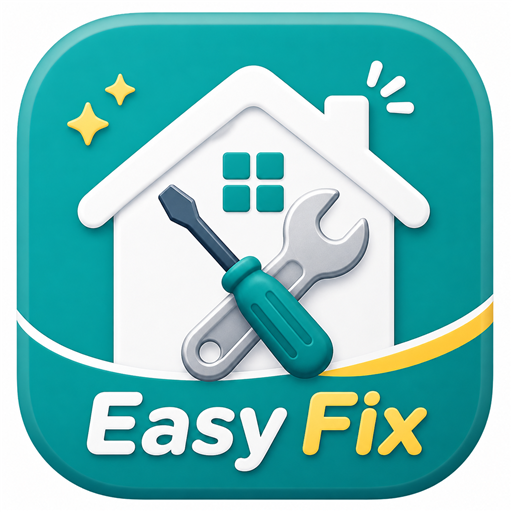
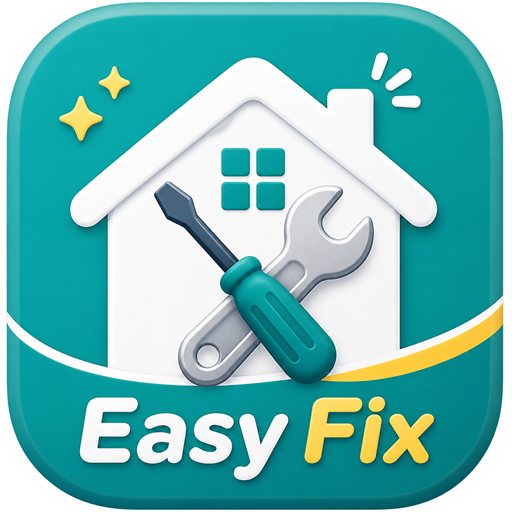
หน้า home: คืนแบนเนอร์ + แปะไอคอน Easy Fix ละเอียด (มุมโปร่งใส) ทับโลโก้เดิม

diff --git a/app/index.html b/app/index.html
@@ -114,18 +114,13 @@
 
   /* ---------- login ---------- */
   #s-login{padding:0 0 40px}
-  .hero-logo{position:relative;overflow:hidden;text-align:center;
-    padding:calc(env(safe-area-inset-top,0px) + 30px) 20px 34px;
-    background:linear-gradient(168deg,#d5f4ee 0%,#e9faf6 55%,var(--bg) 100%);border-radius:0 0 42px 42px}
-  body.admin .hero-logo{background:linear-gradient(168deg,#dbe2ff 0%,#eef1ff 55%,var(--bg) 100%)}
-  .hero-logo::before{content:"";position:absolute;width:220px;height:220px;border-radius:50%;top:-70px;left:-50px;
-    background:radial-gradient(circle,rgba(42,208,190,.4),transparent 70%);filter:blur(6px)}
-  .hero-logo::after{content:"";position:absolute;width:180px;height:180px;border-radius:50%;top:20px;right:-50px;
-    background:radial-gradient(circle,rgba(15,181,166,.28),transparent 70%);filter:blur(6px)}
-  .hero-icon{position:relative;width:150px;height:150px;border-radius:36px;display:block;margin:0 auto;
-    box-shadow:0 20px 40px -14px rgba(11,131,120,.5);animation:pop .55s cubic-bezier(.2,.8,.2,1.2)}
-  @keyframes pop{from{opacity:0;transform:scale(.72) translateY(10px)}to{opacity:1;transform:none}}
-  .hero-tag{position:relative;color:var(--brand-deep);font-size:15px;font-weight:600;margin-top:16px}
+  .hero-banner-wrap{overflow:hidden;border-radius:0 0 34px 34px;padding-top:env(safe-area-inset-top,0px);
+    background:#eaf6f8;box-shadow:0 14px 30px -16px rgba(11,131,120,.35)}
+  .hero-banner-inner{position:relative;line-height:0}
+  .hero-banner{width:100%;display:block}
+  .hero-overlay-icon{position:absolute;top:6%;left:59%;width:22%;border-radius:22%;
+    filter:drop-shadow(0 10px 16px rgba(11,131,120,.35));animation:pop .55s cubic-bezier(.2,.8,.2,1.2)}
+  @keyframes pop{from{opacity:0;transform:scale(.7)}to{opacity:1;transform:none}}
   .login-body{padding:0 16px}
   .login-card{margin-top:-18px;position:relative;z-index:2}
   .login-card h2{font-family:var(--display);text-align:center;font-size:22px;font-weight:700}
@@ -270,10 +265,10 @@
 
   <!-- ============ LOGIN ============ -->
   <section id="s-login" class="screen active">
-    <div class="hero-logo">
-      <img class="hero-icon" src="icon-512.png" alt="Easy Fix">
-      <p class="hero-tag">ระบบแจ้งซ่อมบ้านพักพนักงาน</p>
-    </div>
+    <div class="hero-banner-wrap"><div class="hero-banner-inner">
+      <img class="hero-banner" src="hero-banner.jpg" alt="Easy Fix — ระบบแจ้งซ่อมบ้านพักพนักงาน">
+      <img class="hero-overlay-icon" src="icon-512.png" alt="Easy Fix">
+    </div></div>
     <div class="login-body">
       <div class="card login-card">
         <h2>ยินดีต้อนรับ 👋</h2>

diff --git a/app/sw.js b/app/sw.js
@@ -1,6 +1,6 @@
 /* Easy Fix — service worker (app shell cache) */
-const CACHE = 'easyfix-v4';
-const SHELL = ['index.html', 'manifest.webmanifest', 'icon-192.png', 'icon-512.png'];
+const CACHE = 'easyfix-v5';
+const SHELL = ['index.html', 'manifest.webmanifest', 'hero-banner.jpg', 'icon-192.png', 'icon-512.png'];
 
 self.addEventListener('install', e => {
   e.waitUntil(caches.open(CACHE).then(c => c.addAll(SHELL)).then(() => self.skipWaiting()));
